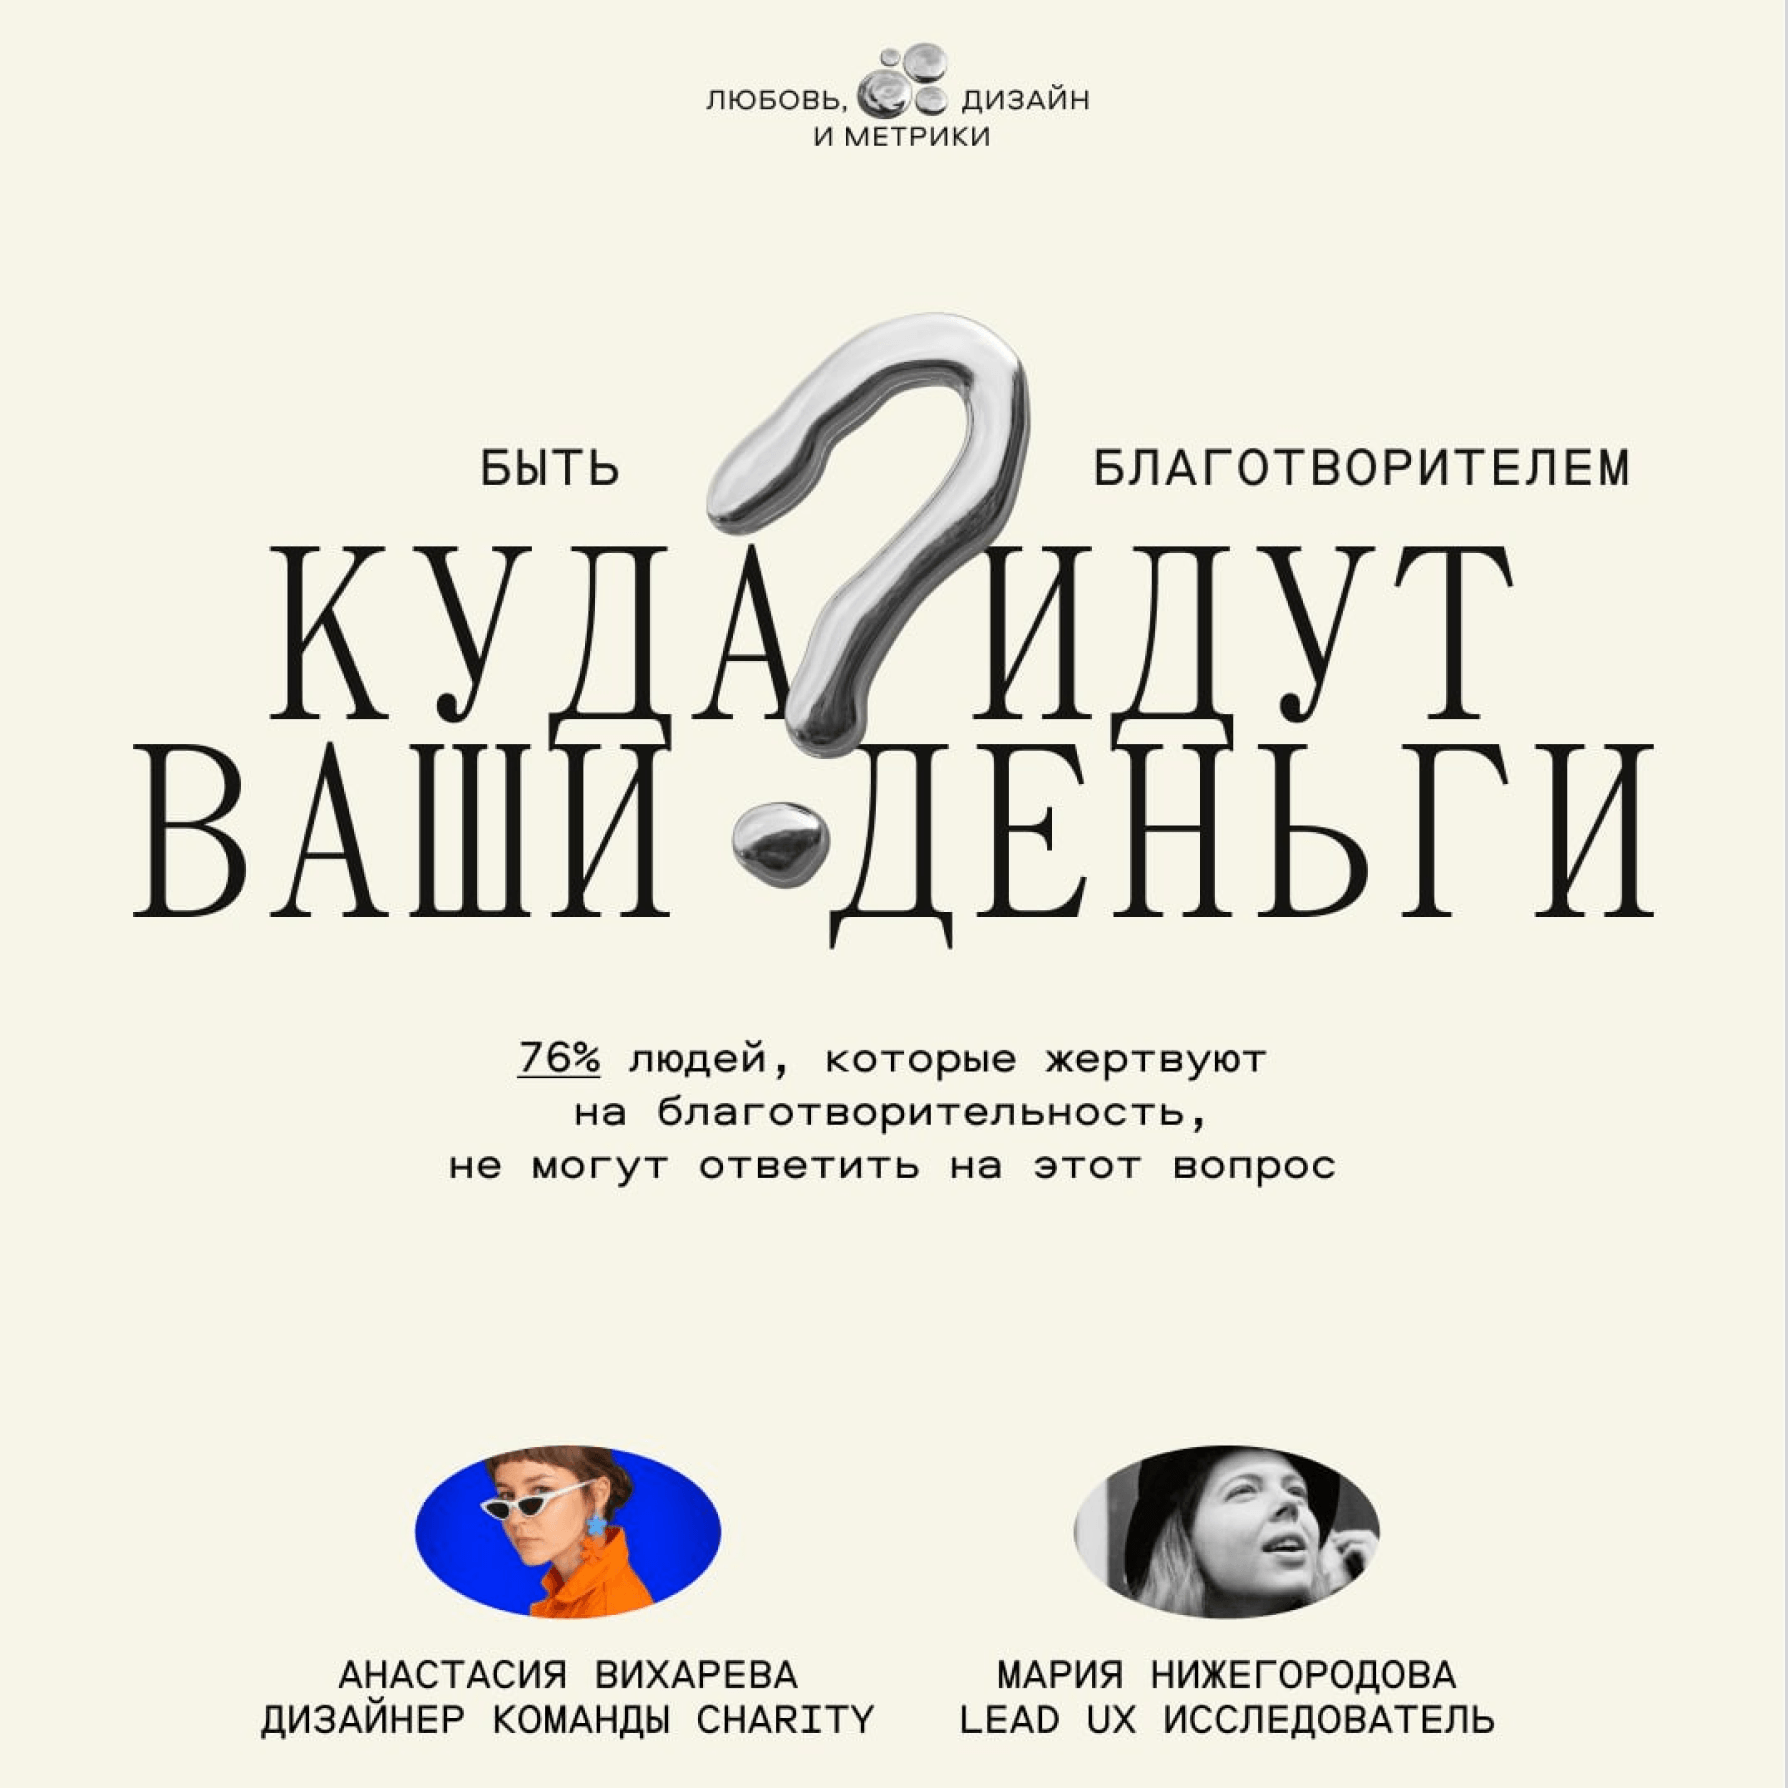
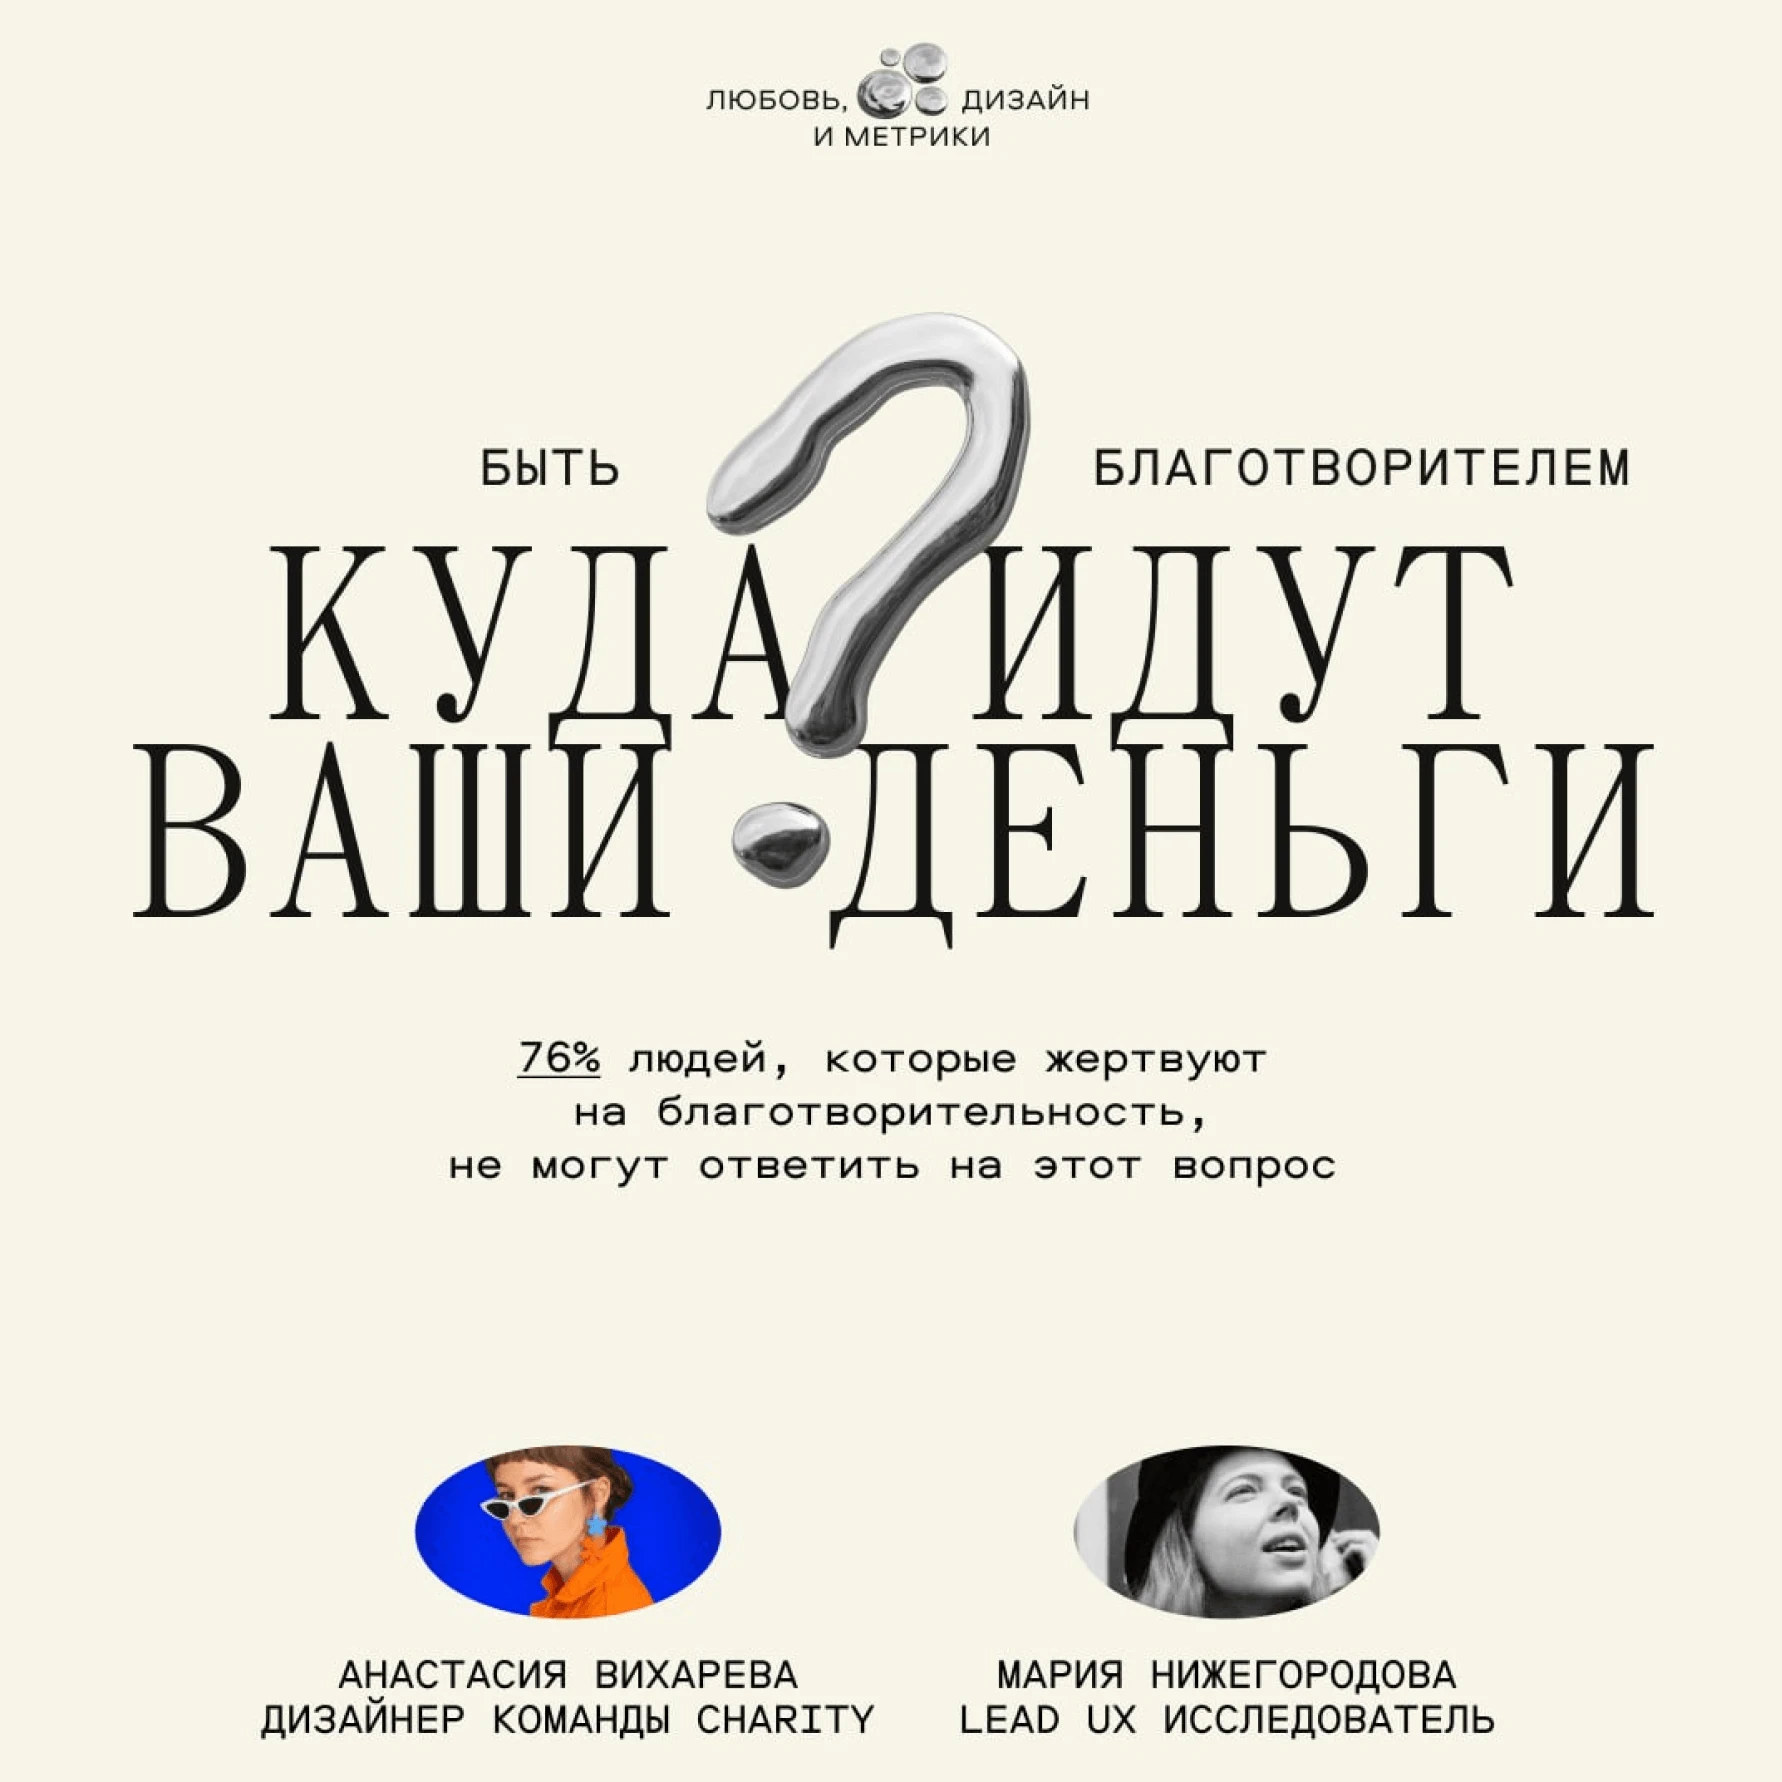
Posts: crop the grey edge strip baked into the «Куда идут ваши деньги» cover

diff --git a/projects/posts/index.html b/projects/posts/index.html
@@ -75,7 +75,7 @@
 <div class="collection">
     <section class="collection__section" id="posts" aria-labelledby="posts-heading"><h1 class="text-h1" id="posts-heading">Посты в Telegram</h1><div class="project-grid posts-grid">
         <article class="project-card project-card--linked" data-action-hover><div class="project-card__visual"><div class="project-card__cover"><img src="/projects/posts/blanket-post/covers/cover.webp" alt="Пост о пледе от фонда «Старость в радость» с фотографией пледа ручной работы" loading="lazy" decoding="async" /></div><a class="project-card__action btn btn--fill-glass btn--icon-only btn--hit-area btn--icon-diagonal-motion" href="https://t.me/designavito/1848" target="_blank" rel="noopener noreferrer" aria-label="Открыть: Благотворительные товары на Авито"><span class="icon icon--arrow-diagonal" aria-hidden="true"></span></a></div></article>
-        <article class="project-card project-card--linked" data-action-hover><div class="project-card__visual"><div class="project-card__cover"><img src="/projects/posts/where-is-money-post/covers/cover.webp" alt="Пост «Куда идут ваши деньги», 76% жертвователей не знают, куда уходят их переводы" loading="lazy" decoding="async" /></div><a class="project-card__action btn btn--fill-glass btn--icon-only btn--hit-area btn--icon-diagonal-motion" href="https://t.me/designavito/1874?single" target="_blank" rel="noopener noreferrer" aria-label="Открыть: Куда ушли пожертвования"><span class="icon icon--arrow-diagonal" aria-hidden="true"></span></a></div></article>
+        <article class="project-card project-card--linked" data-action-hover><div class="project-card__visual"><div class="project-card__cover"><img src="/projects/posts/where-is-money-post/covers/cover.webp?v=2" alt="Пост «Куда идут ваши деньги», 76% жертвователей не знают, куда уходят их переводы" loading="lazy" decoding="async" /></div><a class="project-card__action btn btn--fill-glass btn--icon-only btn--hit-area btn--icon-diagonal-motion" href="https://t.me/designavito/1874?single" target="_blank" rel="noopener noreferrer" aria-label="Открыть: Куда ушли пожертвования"><span class="icon icon--arrow-diagonal" aria-hidden="true"></span></a></div></article>
         <article class="project-card project-card--linked" data-action-hover><div class="project-card__visual"><div class="project-card__cover"><img src="/projects/posts/silver-wishes-post/covers/cover.webp" alt="Пост «Серебряные желания» в вязаной рамке, о том как средний чек сборов вырос втрое" loading="lazy" decoding="async" /></div><a class="project-card__action btn btn--fill-glass btn--icon-only btn--hit-area btn--icon-diagonal-motion" href="https://t.me/designavito/1971" target="_blank" rel="noopener noreferrer" aria-label="Открыть: Серебряные желания"><span class="icon icon--arrow-diagonal" aria-hidden="true"></span></a></div></article>
         <article class="project-card project-card--linked" data-action-hover><div class="project-card__visual"><div class="project-card__cover"><img src="/pages/home/assets/ozon/4-original.webp" alt="Пост-инструкция «Работаем с Photoshop» об импорте mp4 в слои и покадровой анимации" loading="lazy" decoding="async" /></div><a class="project-card__action btn btn--fill-glass btn--icon-only btn--hit-area btn--icon-diagonal-motion" href="https://t.me/ozondesign/4393" target="_blank" rel="noopener noreferrer" aria-label="Открыть пост об анимации: ProtoPie и Photoshop"><span class="icon icon--arrow-diagonal" aria-hidden="true"></span></a></div></article>
       </div>
